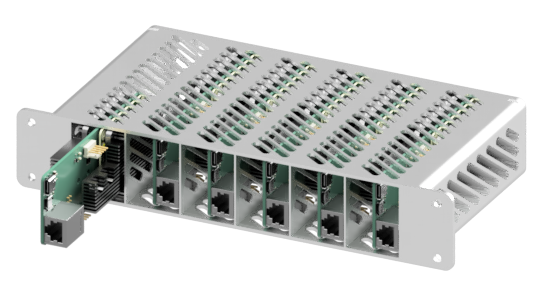
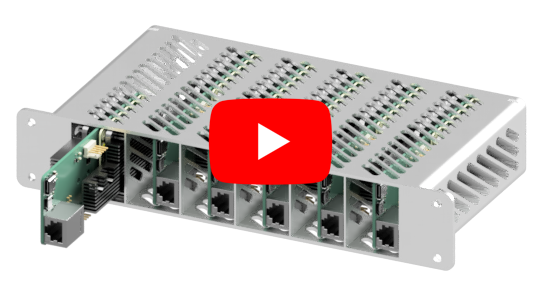
Heatsink category

Changed region(s): [[0.3831, 0.3404, 0.6188, 0.6809]]

diff --git a/docs/xerxes-hardware-3d.md b/docs/xerxes-hardware-3d.md
@@ -1,0 +1,17 @@
+---
+outline: deep
+---
+
+# Heatsinks, Racks, & Cases
+
+### Cases and Racks
+
+We are committed to trasnparency and open source for all case designs for the Xerxes Pi including our 1U mini rack, single Xerxes Pi enclosure, and full 19" 1U pro rack. All rack designs will be engineered to fit in a typically sized commercial 3D printer. All prints can either be bought by us pre-printed, printed on your own home printer, or printed by any of our print-farm partners. 
+
+<img src="/xerxes/rack.jpg" alt="Darius RAM" width="600" />
+
+### Heatsinks
+
+[TCPoly®](https://tcpoly.com) kindly provided their Ice9 heat conductive filament for internal testing at RapidAnalysis during our custom heatsink development trials. We found that their Nylon and TPU filament worked really well with CM4 and CM5 custom heatsinks. We will be providing both TCPoly and traditional aluminium heatsinks as custom passive cooling sleds used to friction fit Xerxes Pis in our custom designed open source 1U mini-rack and full sized rack enclosures. 
+
+[![Watch the video](/xerxes/heatsink_thumbnail.jpg)](https://youtu.be/4I_BMbAXmSg)
